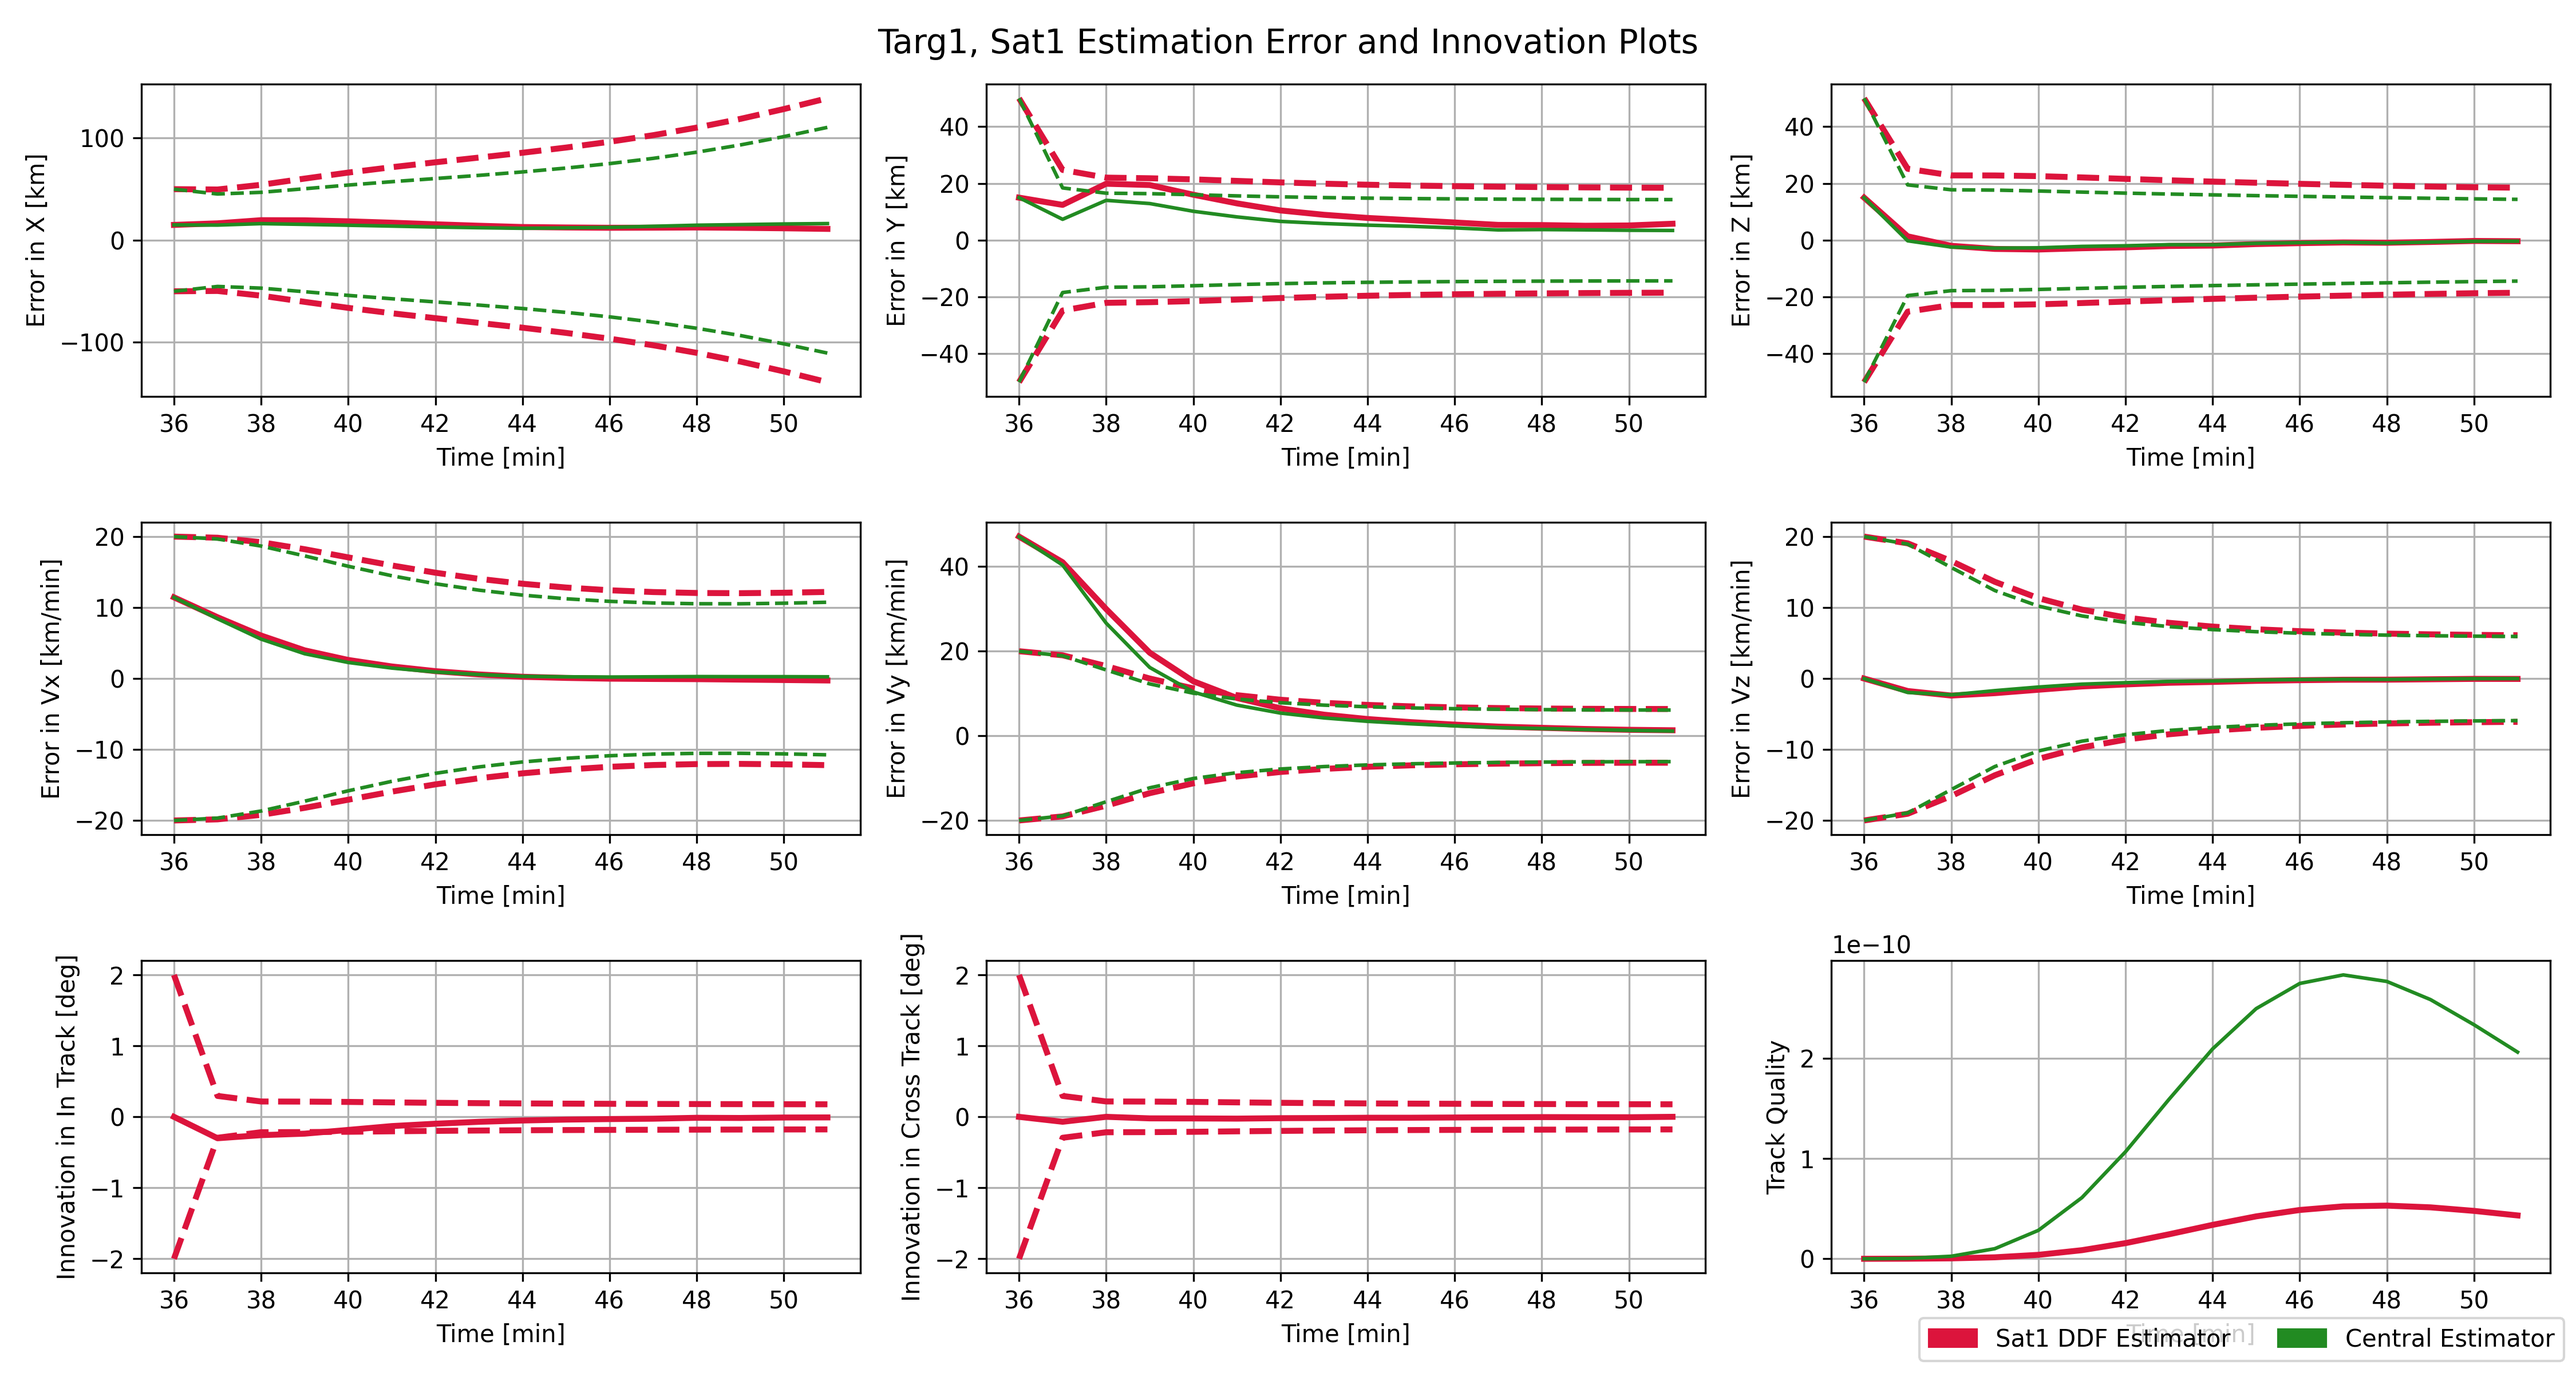
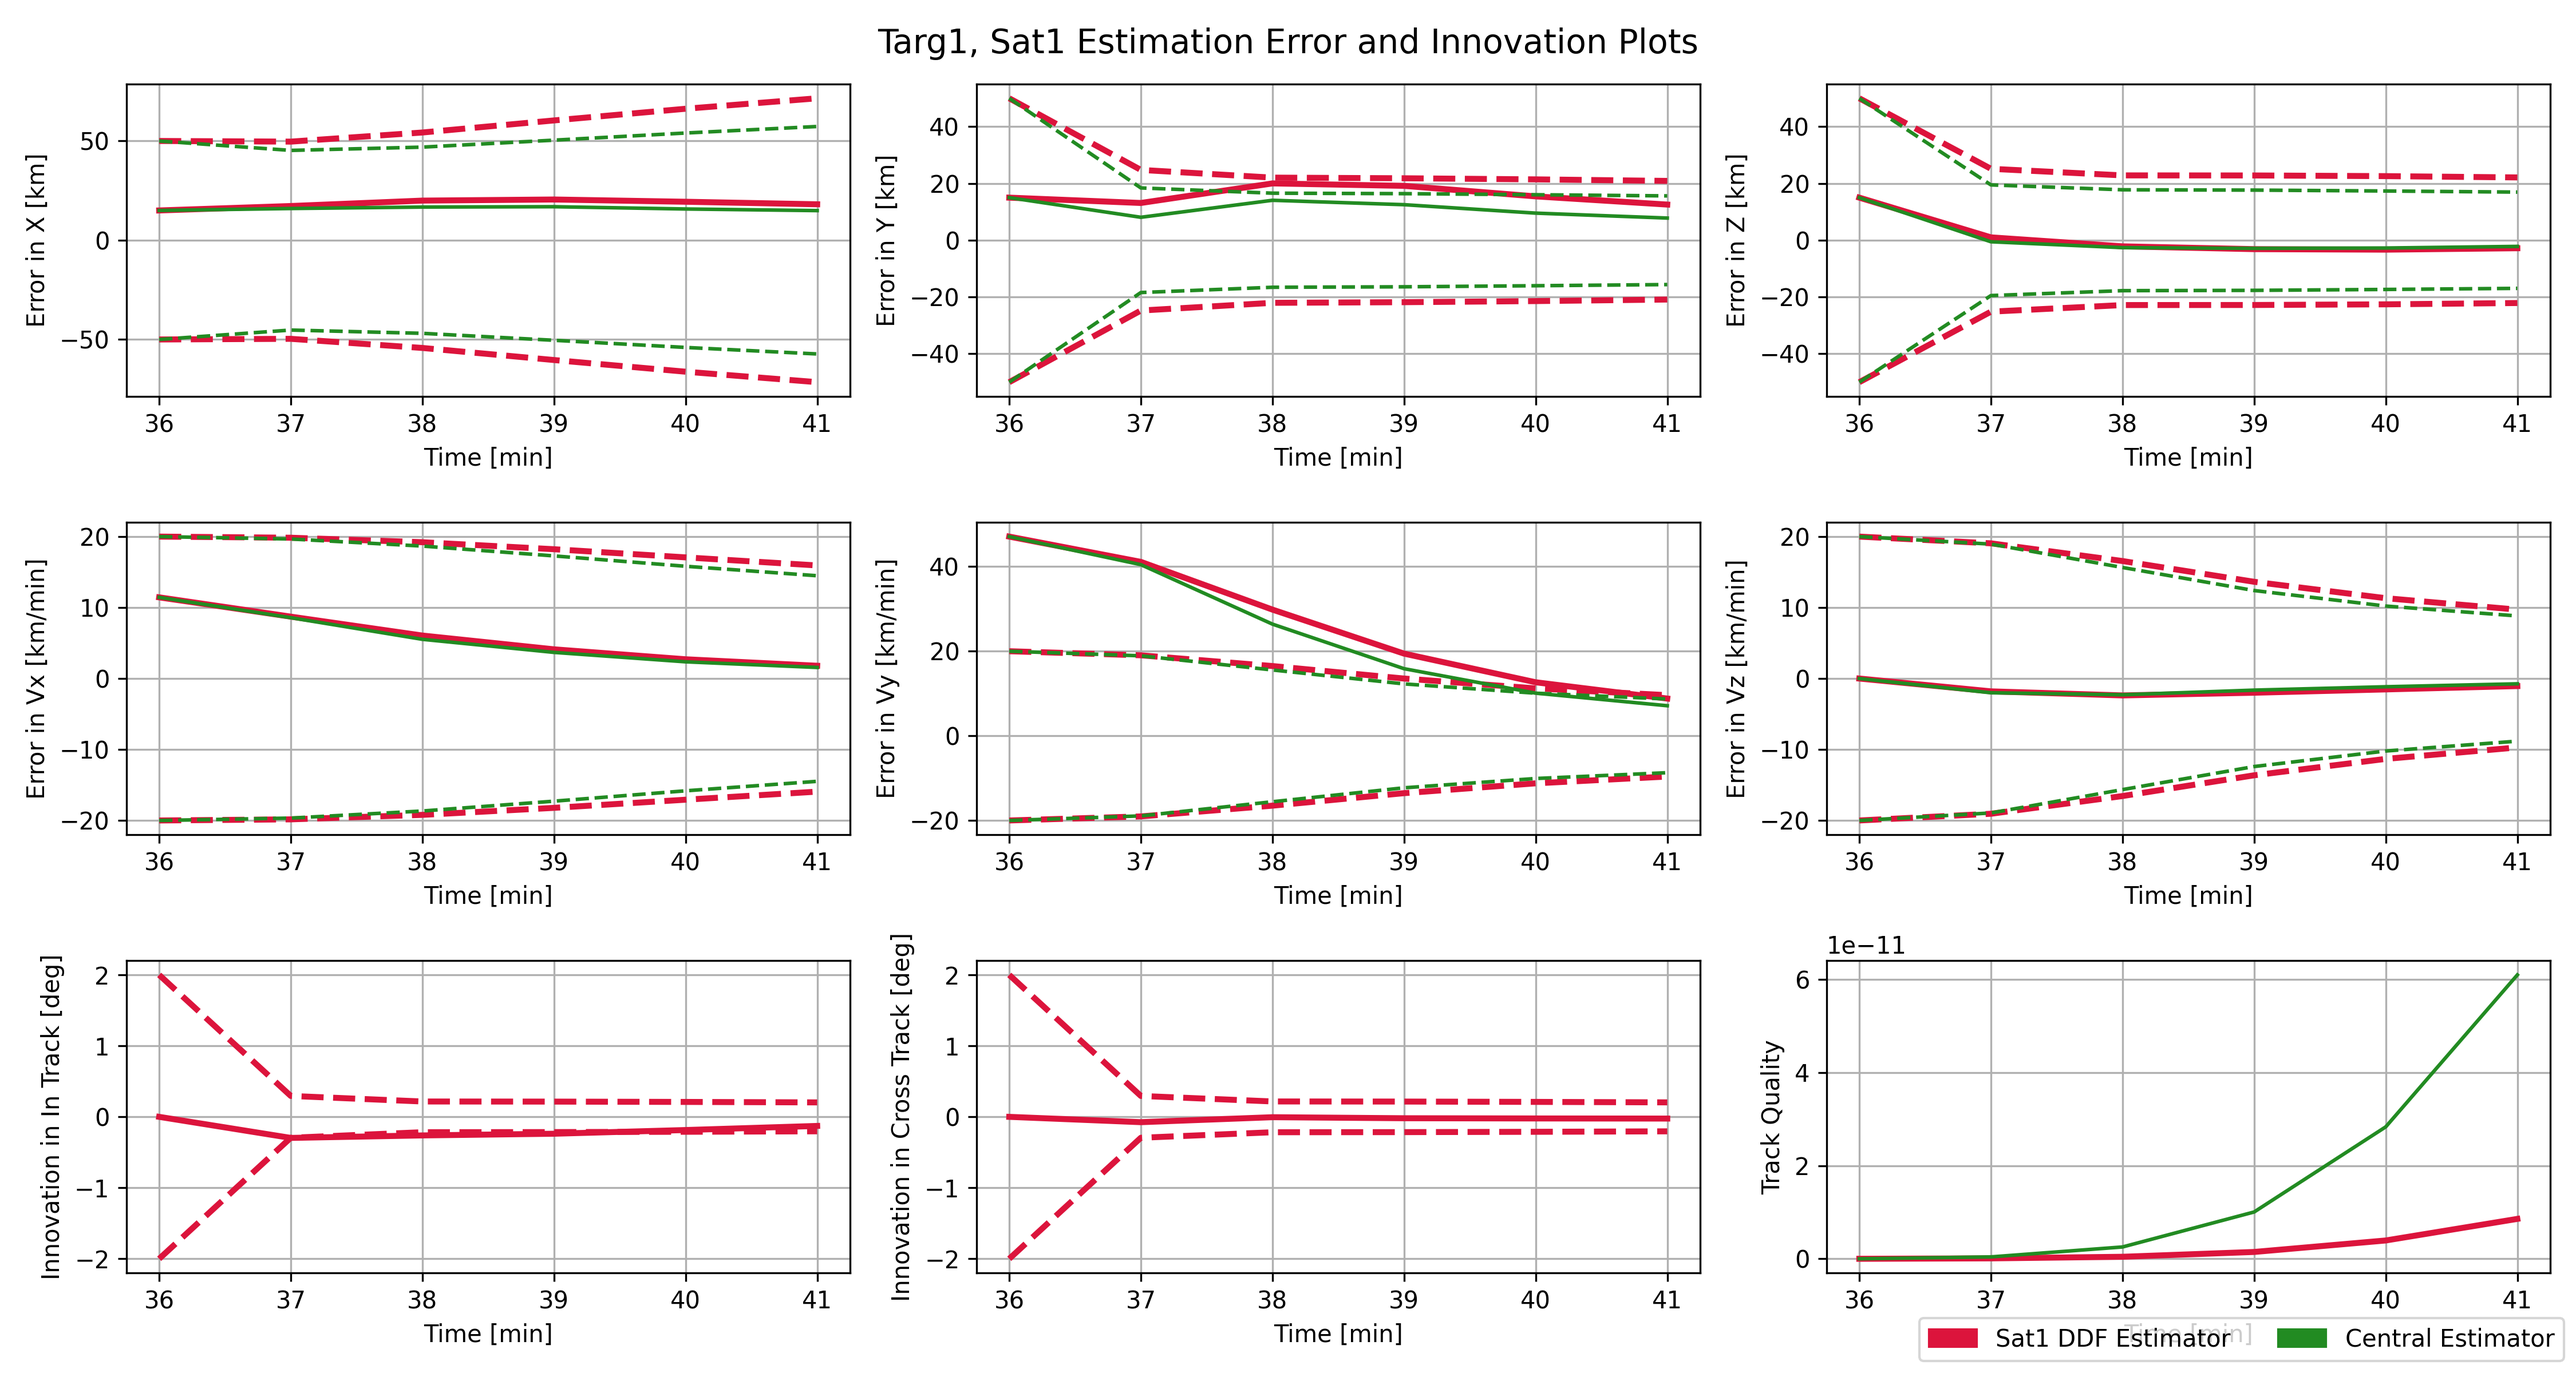
Added new ET estimator plot, GE stero ET gifs, and fixed data dump file

diff --git a/phase2/environmentClass.py b/phase2/environmentClass.py
@@ -52,6 +52,7 @@ class environment:
         self.imgs_ddf_GE = defaultdict(lambda: defaultdict(list))
         self.imgs_cent_GE = defaultdict(lambda: defaultdict(list))
         self.imgs_stereo_GE = defaultdict(lambda: defaultdict(list))
+        self.imgs_stereo_ET_GE = defaultdict(lambda: defaultdict(list))
 
 
     def simulate(self, time_vec, pause_step=0.1, savePlot=False, saveGif=False, saveData=False, saveName=None, showSim=False):
@@ -488,11 +489,11 @@ class environment:
                             # Plot the 3x3 Grid of Data
                             self.plot_estimator_data(fig, axes, times, times, times, times, estHist, trueHist, covHist,
                                                     innovationHist, innovationCovHist, NISHist, NEESHist, trackQualityHist,
-                                                    satColor, linewidth=2.5)
+                                                    satColor, linewidth=3.5)
                             
                             self.plot_estimator_data(fig, axes, et_times, et_times, et_times, et_times, et_estHist, trueHist, et_covHist,
                                                     [], [], NISHist, NEESHist, trackQualityHist,
-                                                    '#DC143C', linewidth=2.0, e = True)
+                                                    '#DC143C', linewidth=2, e = True)
                             
                             if self.centralEstimator:  # If central estimator is used, plot the data
                                 # Get the data
@@ -756,7 +757,6 @@ class environment:
             saveName (str): Name for the saved plot file.
         """
         fig = plt.figure(figsize=(15, 8))
-        fig.suptitle("Satellite Communication Messages", fontsize=14)
         
         # Create a 2x1 grid for the plots
         # The top row is in-track measurements with explicit in red and implict in blie
@@ -772,21 +772,23 @@ class environment:
                     for time in sat.etEstimator.measHist[targetID][sat][neighbor].keys():
                         alpha, beta = sat.etEstimator.measHist[targetID][sat][neighbor][time]
                         if not np.isnan(alpha):
-                            ax1.scatter(time, time, color='r')
+                            ax1.scatter(time, 1, color='r')
                         else:
-                            ax1.scatter(time, time, color='b')
+                            ax1.scatter(time, 0, color='b')
                         
                         if not np.isnan(beta):
-                            ax2.scatter(time, time, color='r')
+                            ax2.scatter(time, 1, color='r')
                         else:
-                            ax2.scatter(time, time, color='b')
+                            ax2.scatter(time, 0, color='b')
                             
+                fig.suptitle(f"Satellite Msgs from {sat.name} to {neighbor.name}", fontsize=14)
+
                 # Label the plots
                 ax1.set_xlabel("Time [min]")
-                ax1.set_ylabel("Time [min]")
+                ax1.set_ylabel("Measurement Type")
                 
                 ax2.set_xlabel("Time [min]")
-                ax2.set_ylabel("Time [min]")
+                ax2.set_ylabel("Measurement Type")
                 
                 # Create a patch for the legend
                 handles = [
@@ -828,7 +830,9 @@ class environment:
         for targ in self.targs:
             for sat in self.sats:
                 if targ.targetID in sat.targetIDs:
-                    for k in range(4):
+                    for k in range(5):
+                        if k != 4:
+                            continue
                         if k == 0:  # Plot Local Uncertainty Ellipsoid
                             fig = plt.figure(figsize=(10, 8))
                             ax = fig.add_subplot(111, projection='3d')
@@ -968,6 +972,66 @@ class environment:
 
                                             img = self.save_GEplot_to_image(fig)
                                             self.imgs_stereo_GE[targ.targetID][sat].append(img)
+                                            ax.cla()  # Clear the plot for the next iteration
+                                        plt.close(fig)
+                        if k == 4: # plot stereo with et
+                            for sat2 in self.sats:
+                                if sat2 != sat:
+                                    if targ.targetID in sat2.targetIDs:
+                                        fig = plt.figure(figsize=(10, 8))
+                                        fig.suptitle(f"{targ.name}, {sat.name} and {sat2.name} ET Gaussian Uncertainty Ellipsoids")
+
+                                        ax = fig.add_subplot(111, projection='3d')
+                                        sat1Color = sat.color
+                                        sat2Color = sat2.color
+                                        etColor = '#DC143C'
+                                        alpha = 0.3
+
+                                        sat1_times = sat.indeptEstimator.estHist[targ.targetID].keys()
+                                        sat2_times = sat2.indeptEstimator.estHist[targ.targetID].keys()
+                                        et_times = sat.etEstimator.estHist[targ.targetID][sat][sat].keys()
+                                        times = [time for time in sat1_times if time in sat2_times and time in et_times]
+
+                                        for time in times:
+                                            true_pos = targ.hist[time][[0, 2, 4]]
+                                            est_pos1 = np.array([sat.indeptEstimator.estHist[targ.targetID][time][i] for i in [0, 2, 4]])
+                                            est_pos2 = np.array([sat2.indeptEstimator.estHist[targ.targetID][time][i] for i in [0, 2, 4]])
+                                            et_pos = np.array([sat.etEstimator.estHist[targ.targetID][sat][sat][time][i] for i in [0, 2, 4]])
+
+                                            cov_matrix1 = sat.indeptEstimator.covarianceHist[targ.targetID][time][[0, 2, 4]][:, [0, 2, 4]]
+                                            cov_matrix2 = sat2.indeptEstimator.covarianceHist[targ.targetID][time][[0, 2, 4]][:, [0, 2, 4]]
+                                            et_cov = sat.etEstimator.covarianceHist[targ.targetID][sat][sat][time][np.array([0, 2, 4])][:, np.array([0, 2, 4])]                                            
+                                            eigenvalues1, eigenvectors1 = np.linalg.eigh(cov_matrix1)
+                                            eigenvalues2, eigenvectors2 = np.linalg.eigh(cov_matrix2)
+                                            et_eigenvalues, et_eigenvectors = np.linalg.eigh(et_cov)
+                                            
+                                            error1 = np.linalg.norm(true_pos - est_pos1)
+                                            error2 = np.linalg.norm(true_pos - est_pos2)
+                                            et_error = np.linalg.norm(true_pos - et_pos)
+                                            
+                                            LOS_vec1 = -sat.orbitHist[time] / np.linalg.norm(sat.orbitHist[time])
+                                            LOS_vec2 = -sat2.orbitHist[time] / np.linalg.norm(sat2.orbitHist[time])
+                                            
+                                            self.plot_ellipsoid(ax, est_pos1, cov_matrix1, color=sat1Color, alpha=alpha)
+                                            self.plot_ellipsoid(ax, est_pos2, cov_matrix2, color=sat2Color, alpha=alpha)
+                                            self.plot_ellipsoid(ax, et_pos, et_cov, color=etColor, alpha=alpha)
+                                            
+                                            self.plot_estimate(ax, est_pos1, true_pos, sat1Color)
+                                            self.plot_estimate(ax, est_pos2, true_pos, sat2Color)
+                                            self.plot_estimate(ax, et_pos, true_pos, etColor)
+                                            
+                                            self.plot_LOS(ax, est_pos1, LOS_vec1)
+                                            self.plot_LOS(ax, est_pos2, LOS_vec2)
+                                            
+                                            self.plot_all_labels(ax, targ, sat, sat2, time, error1, error2, et_error)
+                                            
+                                            if np.max(eigenvalues1) > np.max(eigenvalues2):
+                                                self.set_axis_limits(ax, est_pos1, np.sqrt(eigenvalues1), margin=50.0)
+                                            else:
+                                                self.set_axis_limits(ax, est_pos2, np.sqrt(eigenvalues2), margin=50.0)
+                                                
+                                            img = self.save_GEplot_to_image(fig)
+                                            self.imgs_stereo_ET_GE[targ.targetID][sat].append(img)
                                             ax.cla()  # Clear the plot for the next iteration
                                         plt.close(fig)
 
@@ -1117,7 +1181,7 @@ class environment:
         return img
       
 
-    def render_gif(self, fileType, saveName, filePath=os.path.dirname(os.path.realpath(__file__)), fps=10):
+    def render_gif(self, fileType, saveName, filePath=os.path.dirname(os.path.realpath(__file__)), fps=1):
         """
         Renders and saves GIFs based on the specified file type.
 
@@ -1160,6 +1224,11 @@ class environment:
                         both_file = os.path.join(filePath, 'gifs', f"{saveName}_{targ.name}_{sat.name}_stereo_GE.gif")
                         with imageio.get_writer(both_file, mode='I', duration=frame_duration) as writer:
                             for img in self.imgs_stereo_GE[targ.targetID][sat]:
+                                writer.append_data(img)
+                                
+                        et_file = os.path.join(filePath, 'gifs', f"{saveName}_{targ.name}_{sat.name}_stereo_ET_GE.gif")
+                        with imageio.get_writer(et_file, mode='I', duration=frame_duration) as writer:
+                            for img in self.imgs_stereo_ET_GE[targ.targetID][sat]:
                                 writer.append_data(img)
   
 ### Data Dump File ###        
@@ -1268,6 +1337,8 @@ class environment:
         def format_list(lst):
             if isinstance(lst, np.ndarray):
                 return [f"{x:.{precision}f}" for x in lst.flatten()]
+            elif isinstance(lst, int) or isinstance(lst, float):
+                return [f"{float(lst):.{precision}f}"]
             else:
                 return [f"{x:.{precision}f}" for x in lst]
 
@@ -1301,14 +1372,14 @@ class environment:
                 if time in estTimes:
                     row += format_list(estHist[time])
                     row += format_list(np.diag(covHist[time]))
-                    row += format_list(trackQuality)
+                    row += format_list(trackQuality[time])
                     row += format_list(innovationHist[time])
                     row += format_list(np.diag(innovationCovHist[time]))
 
                 if time in ddf_times:
                     row += format_list(ddf_estHist[time])
                     row += format_list(np.diag(ddf_covHist[time]))
-                    row += format_list(ddf_trackQuality)
+                    row += format_list(ddf_trackQuality[time])
 
                 if time in ddf_innovation_times:
                     row += format_list(ddf_innovationHist[time])

diff --git a/phase2/main.py b/phase2/main.py
@@ -222,7 +222,7 @@ if __name__ == "__main__":
     # env.render_gif(fileType='uncertainty_ellipse', saveName=fileName, fps = 5)
 
     ### Do formal NEES and NIS test:
-    time_vec = np.linspace(36, 51, 15 + 1) * u.minute
+    time_vec = np.linspace(36, 41, 5 + 1) * u.minute
     fileName = "ET_Test_"
     numSims = 1
     simData = defaultdict(dict)
@@ -231,7 +231,10 @@ if __name__ == "__main__":
         # Create a new environment instance for each simulation run:
         env = create_environment_edge()
         # Simulate the satellites through the vector of time:
-        simData[i] = env.simulate(time_vec, pause_step=0.1, savePlot=True, saveGif=False, saveData=False, saveName=fileName, showSim=False)
+        simData[i] = env.simulate(time_vec, pause_step=0.1, savePlot=False, saveGif=False, saveData=True, saveName=fileName, showSim=False)
+        
+        env.render_gif(fileType='satellite_simulation', saveName=fileName, fps = 1)
+        env.render_gif(fileType='uncertainty_ellipse', saveName=fileName, fps = 1)
 
     plot_NEES_NIS(simData, fileName)
 
